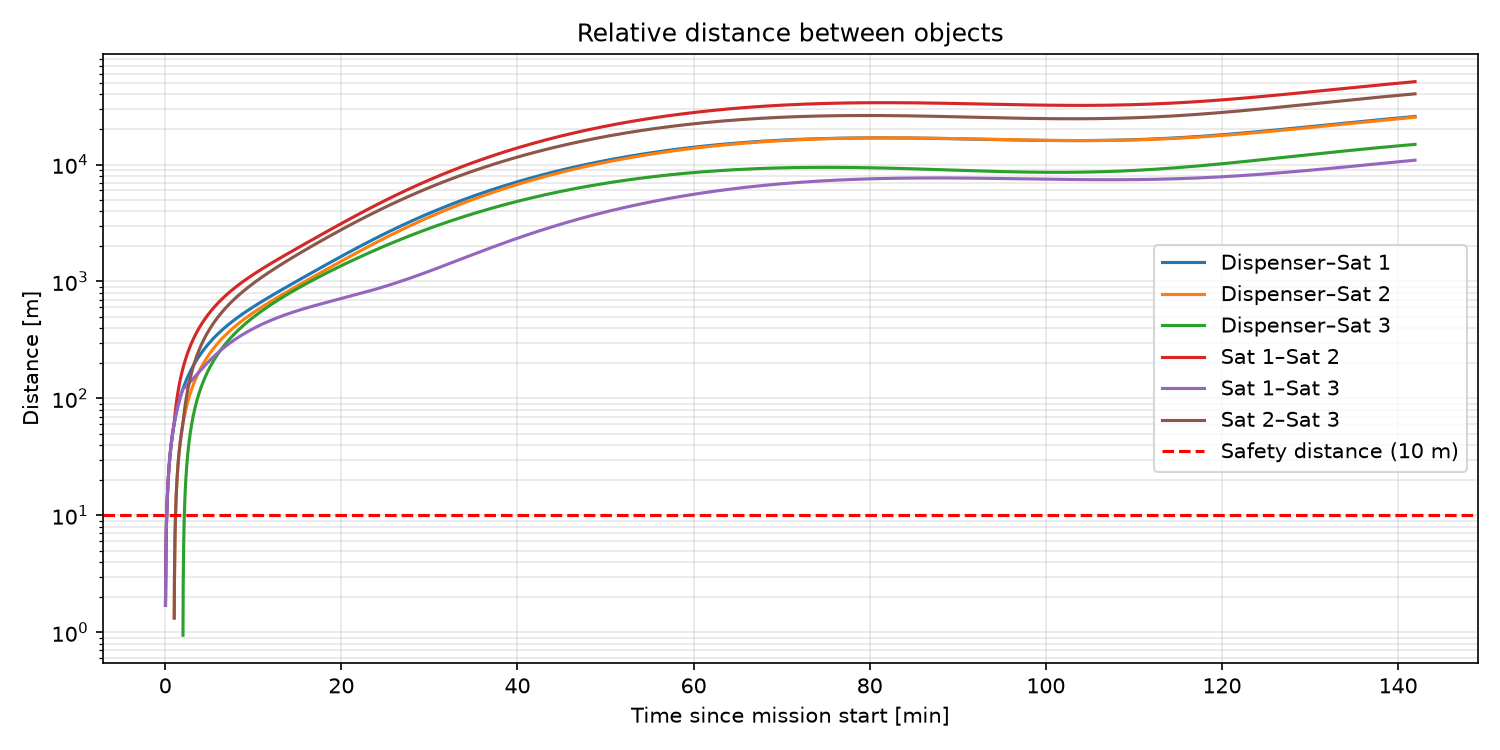
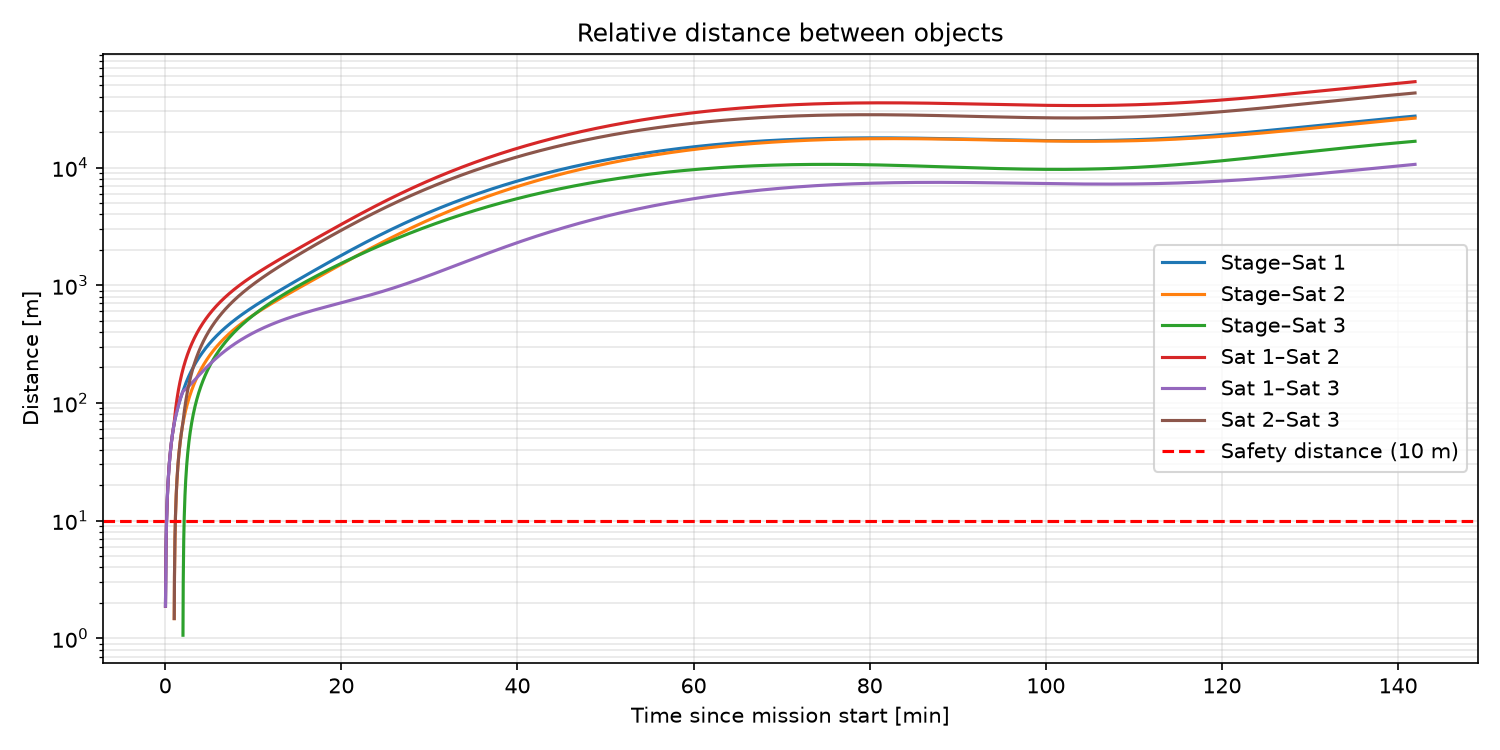
Complete v0.2: satellite masses, spring impulse, upper-stage recoil, TOML scenarios

diff --git a/examples/run_scenario.py b/examples/run_scenario.py
@@ -1,0 +1,74 @@
+"""Kör ett scenario från en TOML-fil: simulering, avståndsanalys och grafer.
+
+Användning:
+    uv run python examples/run_scenario.py scenarios/scenario1.toml
+"""
+
+import sys
+import tomllib
+from pathlib import Path
+
+import numpy as np
+
+from sepsim.analysis.conjunctions import closest_approach, pairwise_distances
+from sepsim.constants import R_EARTH
+from sepsim.dynamics.cw import mean_motion
+from sepsim.dynamics.separation import propagate_mission
+from sepsim.scenario import load_mission
+from sepsim.viz.plots import plot_distances, plot_trajectories
+
+# --- Analysinställningar (flyttas till scenariofilen senare) ---
+SAFETY = 10.0           # [m] säkerhetsavstånd
+CLEARANCE = 600.0       # [s] frigångstid som ignoreras i analysen
+N_ORBITS = 1.5          # antal varv att simulera
+N_SAMPLES = 5000        # antal tidpunkter
+
+RESULTS = Path("results")
+
+
+def main(scenario_path: str) -> None:
+    path = Path(scenario_path)
+    mission = load_mission(path)
+    with open(path, "rb") as f:
+        title = tomllib.load(f).get("name", path.stem)
+
+    n = mean_motion(R_EARTH + mission.altitude)
+    T = 2 * np.pi / n
+    t = np.linspace(0, N_ORBITS * T, N_SAMPLES)
+
+    # --- Simulering ---
+    names, states = propagate_mission(mission, n, t)
+    positions = states[:, :, :3]
+
+    # --- Analys ---
+    pairs, distances = pairwise_distances(positions)
+    min_dist, t_min = closest_approach(distances, t, after=CLEARANCE)
+
+    print(f"{title}")
+    print(f"Orbital period: {T / 60:.1f} min\n")
+    for (i, j), d, tm in zip(pairs, min_dist, t_min):
+        status = "RISK" if d < SAFETY else "ok"
+        print(f"{names[i]:>6} – {names[j]:<6}  min {d:9.1f} m at {tm / 60:6.1f} min  [{status}]")
+
+    stage_end = positions[0, -1]
+    print(f"\nStage displacement from reference point after {N_ORBITS:g} orbits: "
+          f"{np.linalg.norm(stage_end):.0f} m  (x={stage_end[0]:.0f}, y={stage_end[1]:.0f}, z={stage_end[2]:.0f})")
+
+    # --- Grafer ---
+    RESULTS.mkdir(exist_ok=True)
+    stem = path.stem
+
+    fig = plot_distances(pairs, distances, t, names, safety=SAFETY)
+    fig.savefig(RESULTS / f"{stem}_distances.png", dpi=150)
+
+    fig = plot_trajectories(positions, names)
+    fig.savefig(RESULTS / f"{stem}_trajectories.png", dpi=150)
+
+    print(f"\nFigures saved to {RESULTS}/{stem}_*.png")
+
+
+if __name__ == "__main__":
+    if len(sys.argv) != 2:
+        print("Usage: uv run python examples/run_scenario.py <scenario.toml>")
+        sys.exit(1)
+    main(sys.argv[1])

diff --git a/src/sepsim/viz/plots.py b/src/sepsim/viz/plots.py
@@ -31,23 +31,17 @@ def plot_distances(pairs, distances, t, labels, safety=10.0):
 
 def plot_trajectories(positions, labels):
     """
-    Banor relativt dispensern i banplanet (y längs banan, x radiellt).
-
-    positions: form (antal_objekt, N, 3), objekt 0 = dispensern
-    labels:    namn på objekten, t.ex. ["Dispenser", "Sat 1", "Sat 2"]
+    Banor relativt referenspunkten i banplanet (y längs banan, x radiellt).
+    Alla objekt ritas, även steget (objekt 0), eftersom det nu rör sig av rekylen.
     """
     fig, ax = plt.subplots(figsize=(10, 6))
-
-    for k in range(1, positions.shape[0]):     # börja på 1: hoppa över dispensern
-        y = positions[k, :, 1]                 # längs banan
-        x = positions[k, :, 0]                 # radiellt
-        ax.plot(y, x, label=labels[k])
-
-    ax.plot(0, 0, "k^", markersize=10, label=labels[0])   # dispensern i origo
-
+    for k in range(positions.shape[0]):
+        style = {"color": "black", "linestyle": "--"} if k == 0 else {}
+        ax.plot(positions[k, :, 1], positions[k, :, 0], label=labels[k], **style)
+    ax.plot(0, 0, "k+", markersize=12, label="Reference point")
     ax.set_xlabel("Along-track y [m]")
     ax.set_ylabel("Radial x [m]")
-    ax.set_title("Trajectories relative to dispenser (orbital plane)")
+    ax.set_title("Trajectories relative to reference orbit (orbital plane)")
     ax.grid(True, alpha=0.3)
     ax.legend()
     fig.tight_layout()

diff --git a/src/sepsim/scenario.py b/src/sepsim/scenario.py
@@ -1,4 +1,6 @@
+import tomllib
 from dataclasses import dataclass
+from pathlib import Path
 
 
 @dataclass
@@ -15,3 +17,22 @@ class Mission:
     altitude: float                          # [m] banhöjd
     stage_mass: float                        # [kg] raketsteg + dispenser, utan satelliter
     satellites: list[Satellite]
+
+
+def load_mission(path: str | Path) -> Mission:
+    """Läser ett scenario från en TOML-fil. Omvandlar km → m."""
+    with open(path, "rb") as f:
+        data = tomllib.load(f)
+
+    satellites = [
+        Satellite(
+        name=s["name"],
+        mass=s["mass_kg"],
+        spring_impulse=s["spring_impulse_Ns"],
+        direction=tuple(s["direction"]),
+        t_sep=s["t_sep_s"],
+    )
+    for s in data["satellites"]
+    ]
+
+    return Mission(altitude=data["altitude_km"] * 1000, stage_mass=data["stage_mass_kg"], satellites=satellites)

diff --git a/tests/test_scenario.py b/tests/test_scenario.py
@@ -1,0 +1,12 @@
+from sepsim.scenario import load_mission
+
+
+def test_load_scenario1():
+    mission = load_mission("scenarios/scenario1.toml")
+
+    assert mission.altitude == 500_000
+    assert mission.stage_mass == 1200
+    assert len(mission.satellites) == 3
+    assert mission.satellites[0].name == "Sat 1"
+    assert mission.satellites[0].mass == 150
+    assert mission.satellites[2].direction == (1, 0, 1)

diff --git a/README.md b/README.md
@@ -15,21 +15,28 @@ returns to the dispenser after one orbit, and a satellite pushed forward ends
 up *behind* it. This project explores how separation sequence, direction and
 velocity affect the minimum distance between objects.
 
-## Results (v0.1)
+## Results (v0.2)
 
-Same orbit (500 km), same number of satellites, same separation speed
-(exactly 1 m/s for every satellite). Only the separation directions differ.
+Same orbit (500 km), same upper stage (1200 kg), same satellites (150 kg, spring
+impulse 150 N·s → exactly 1 m/s each). Only the separation directions differ.
+Upper-stage recoil is included.
 
 | Scenario 1: radial separations | Scenario 2: separations with along-track component |
 |---|---|
 | ![Scenario 1 distances](docs/images/scenario1_distances.png) | ![Scenario 2 distances](docs/images/scenario2_distances.png) |
 | ![Scenario 1 trajectories](docs/images/scenario1_trajectories.png) | ![Scenario 2 trajectories](docs/images/scenario2_trajectories.png) |
-| All satellites return to the dispenser after one orbit (~95 min). Minimum distance < 1 m: **re-contact risk**. | Satellites drift apart along-track and never return. Minimum distance after clearance: **~400 m**. |
+| All objects return close to each other after one orbit (~95 min). Minimum distance 0.2 m (stage–Sat 3): **re-contact risk**. | Satellites drift apart along-track and never return. Minimum distance after clearance: **~395 m**. |
 
-The trajectory plots show motion relative to the dispenser (triangle) in the
-orbital plane. Radial pushes give closed ellipses through the dispenser.
-Along-track pushes change the orbital period, so each satellite drifts
-≈ 17 km per orbit per m/s of along-track velocity.
+The trajectory plots show motion relative to the reference orbit (cross) in the
+orbital plane; the upper stage is the dashed line. Radial pushes give closed
+ellipses. Along-track pushes change the orbital period, so each satellite
+drifts ≈ 17 km per orbit per m/s of along-track velocity.
+
+**Effect of recoil:** in scenario 1, Sat 2 inherits the stage's recoil from the
+first separation, so its effective push becomes 1.08 m/s instead of 1.0 m/s
+and its ellipse grows. In scenario 2, the stage drifts ≈ 1.6 km from the
+reference point after 1.5 orbits — recoil of a few cm/s changes the geometry
+by kilometres, which is why it has to be modelled.
 
 Note: the trajectory plots use different scales on the two axes.
 
@@ -78,8 +85,13 @@ and a close-up view following the dispenser).
 - [x] Demo scenarios: radial vs. along-track separation
 - [x] Validation tests
 
+**v0.2 — done**
+- [x] Satellite masses and spring impulse (Δv = J / m)
+- [x] Upper-stage recoil from momentum conservation, growing as the stack gets lighter
+- [x] Mission propagation with the stage moving (superposition of CW responses)
+- [x] Scenarios loaded from TOML files, one generic run script
+
 **Planned**
-- [ ] v0.2 — Satellite masses, spring impulse and upper-stage recoil; scenarios from TOML
 - [ ] v0.3 — Separation plan optimization (timing and direction)
 - [ ] v0.4 — Numerical propagator with J2 and atmospheric drag; CW vs. full model comparison
 - [ ] v0.5 — JSON export and web-based 3D visualization
@@ -92,7 +104,8 @@ and a close-up view following the dispenser).
 
 ## Model
 
-**Reference frame:** LVLH / Hill frame (RIC), centered on the dispenser:
+**Reference frame:** LVLH / Hill frame (RIC), centered on the reference orbit
+(where the stack would be without any separations):
 - x: radial, outward from Earth
 - y: along-track, direction of motion
 - z: cross-track, along the orbit normal
@@ -104,13 +117,23 @@ and a close-up view following the dispenser).
     z̈ + n²z = 0
 
 The closed-form solution is used, so no numerical integration is needed.
-Before its separation time a satellite is attached to the dispenser; after
-separation it follows CW motion with time measured from separation. Each
-separation is specified as a direction and a speed, since spring speed is
-fixed by the hardware and direction is what can be chosen.
+
+**Separation physics:** each spring delivers an impulse J between the satellite
+and the remaining stack (upper stage + satellites not yet released). Momentum
+is conserved:
+
+    Δv_sat   = +J / m_sat  · d̂
+    Δv_stack = −J / m_rest · d̂
+
+The stack gets lighter with every separation, so the recoil grows.
+
+**Mission propagation:** because the CW equations are linear, motion from
+several impulses is the sum of the motion from each impulse alone. The stage
+trajectory is the sum of all recoils; a satellite inherits the recoils from
+satellites released before it, plus its own push from its separation time.
 
 **Conjunction analysis:** distances are computed between all pairs of objects
-(dispenser included) at every sample time. Minimum distance is evaluated after
+(upper stage included) at every sample time. Minimum distance is evaluated after
 a clearance time, so that the initial proximity at separation is not counted.
 
 **Assumptions and limitations:**
@@ -118,7 +141,8 @@ a clearance time, so that the initial proximity at separation is not counted.
 - Relative distances small compared to orbit radius
 - No perturbations (J2, drag, solar radiation pressure), to be added in the
   numerical model
-- Dispenser assumed unaffected by separations (no recoil), to be added in v0.2
+- Separations are instantaneous impulses (no spring stroke duration, no tip-off rotation)
+- Point masses: attitude and physical size of the objects are not modelled
 - Closest approach is found among sampled times only; the true minimum may lie
   between samples (default ~1.7 s spacing)
 - Results are only valid within the simulated time window
@@ -137,6 +161,12 @@ a clearance time, so that the initial proximity at separation is not counted.
 | Along-track push, conjunction analysis | No return to the dispenser after clearance |
 | Delayed separation | Same trajectory as immediate separation, shifted in time |
 | Separation state from direction + speed | Requested speed and direction, starting at the dispenser |
+| Momentum at each separation | m_sat · Δv_sat + m_rest · Δv_stack = 0 |
+| Recoil vs. stack mass | Recoil grows as satellites are released (J/1500 → J/1200 kg) |
+| Very heavy stage (10¹² kg) | Same trajectories as v0.1 (stage stays at origin) |
+| Centre of mass of all objects | Stays at the reference point at all times (internal forces only) |
+| Satellite before its separation | Identical state to the upper stage |
+| Scenario loading | TOML values parsed correctly, km converted to m |
 
 ## Getting started
 
@@ -144,31 +174,52 @@ Requires [uv](https://docs.astral.sh/uv/).
 
 ```bash
 uv sync
-uv run pytest                           # run all tests
-uv run python examples/v1_demo.py       # scenario 1: radial separations
-uv run python examples/scenario2.py     # scenario 2: along-track separations
+uv run pytest                                                 # run all tests
+uv run python examples/run_scenario.py scenarios/scenario1.toml   # radial separations
+uv run python examples/run_scenario.py scenarios/scenario2.toml   # along-track separations
 ```
 
-Figures are written to `results/`.
+Figures are written to `results/`. To create a new scenario, copy a TOML file
+in `scenarios/` and change the values — no code changes needed:
+
+```toml
+name = "Scenario 1: radial separations"
+altitude_km = 500
+stage_mass_kg = 1200
+
+[[satellites]]
+name = "Sat 1"
+mass_kg = 150
+spring_impulse_Ns = 150
+direction = [1, 0, 0]       # LVLH: radial, along-track, cross-track
+t_sep_s = 0
+```
 
 ## Project structure
 
 ```
 src/sepsim/
 ├── constants.py            # physical constants with sources
+├── scenario.py             # Satellite and Mission data classes, TOML loading
 ├── dynamics/
-│   └── cw.py               # Clohessy–Wiltshire propagation, separation times
+│   ├── cw.py               # Clohessy–Wiltshire propagation, separation times
+│   └── separation.py       # separation kicks with recoil, mission propagation
 ├── analysis/
 │   └── conjunctions.py     # pairwise distances, closest approach
 └── viz/
     └── plots.py            # distance and trajectory plots
+scenarios/
+├── scenario1.toml          # radial separations
+└── scenario2.toml          # separations with along-track component
 examples/
-├── v1_demo.py              # scenario 1
-└── scenario2.py            # scenario 2
+└── run_scenario.py         # run any scenario: simulation, analysis, plots
 tests/
 ├── test_constants.py
 ├── test_cw.py
-└── test_conjunctions.py
+├── test_conjunctions.py
+├── test_separation.py
+├── test_propagate_mission.py
+└── test_scenario.py
 docs/images/                # figures used in this README
 ```
 
